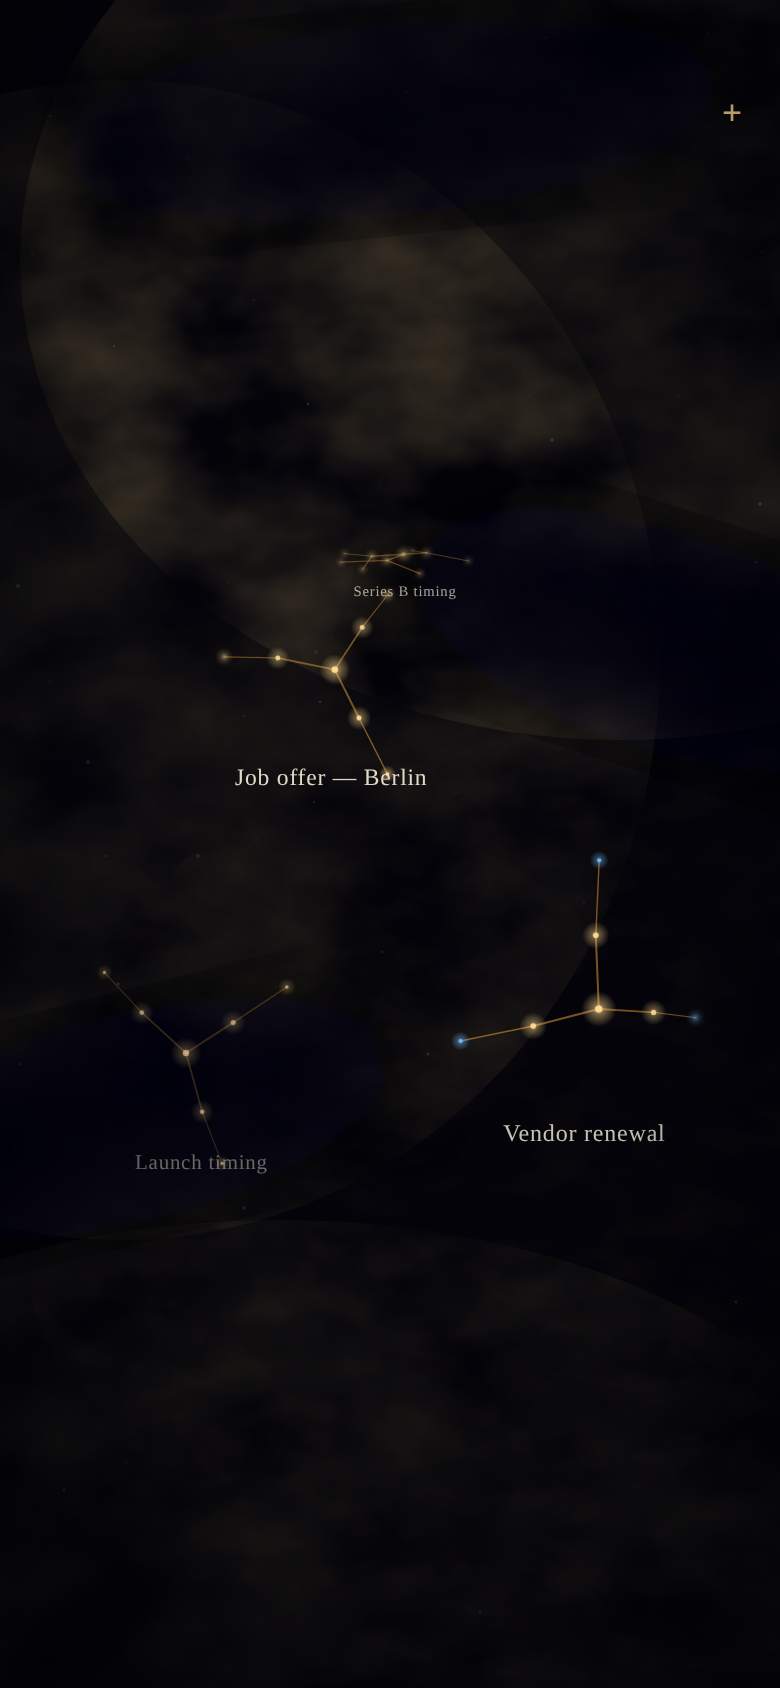
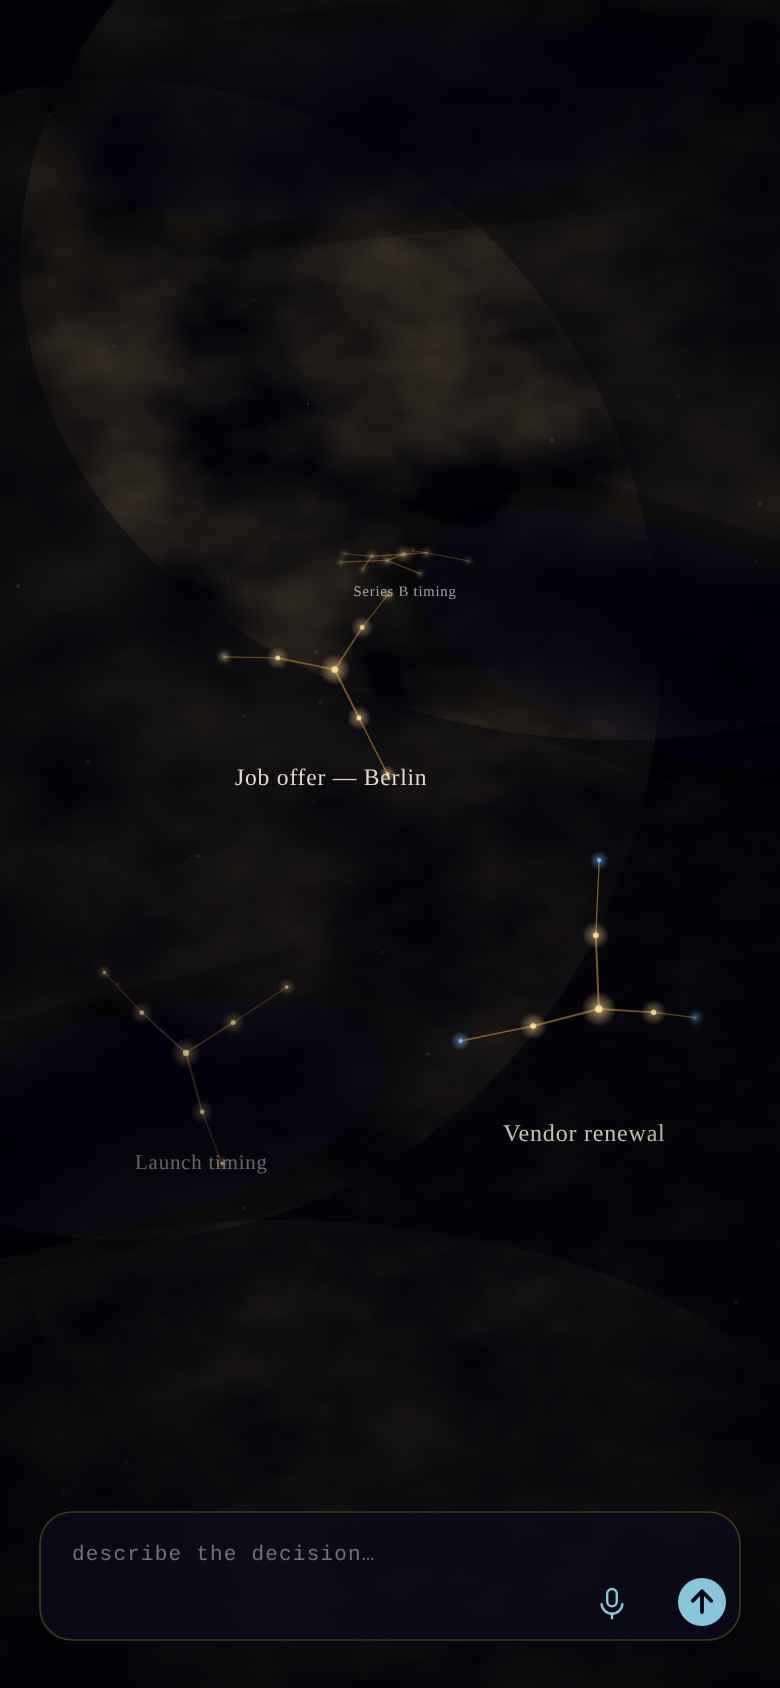
docs: UX update — pairing/provisioning flow mocks (1b-1d), creation (hold-to-birth, + deleted), unified hold-ring spec

diff --git a/docs/radiant-ux-update-onboarding-creation.md b/docs/radiant-ux-update-onboarding-creation.md
@@ -1,0 +1,58 @@
+# Prime Radiant — UX Update: Onboarding & Scenario Creation
+
+Handoff doc for the two interaction systems added after the main spec's mock set: **tailnet onboarding** (pairing + self-provisioning over SSH) and **scenario creation** (capsule + hold-to-birth). Companion mocks are the PNGs shipped alongside this doc; the authoritative product spec remains `prime-radiant-handoff.md` and the motion bible remains `radiant-implementation-notes.md` — both already incorporate everything here. Screens keep the app's standing doctrine: nebula void everywhere, no chrome, no instructions, state expressed through light.
+
+---
+
+## 1. Onboarding — pairing with the box
+
+**Architecture context (one line):** the app talks to a gateway on the user's own machine over their Tailscale tailnet; the model runtime is the user's Claude subscription via the Agent SDK on that box; there are no accounts and no API keys. Full detail: `radiant-pivot-claude-tailscale.md`.
+
+### Flow
+
+```
+1-onboarding ──touch──▶ 1b-address ──submit──▶ probe:
+                                        ├─ gateway already running ──────────────▶ 1d-paired
+                                        ├─ Tailscale SSH available (no creds) ──▶ 1c2-provisioning ─▶ 1d-paired
+                                        ├─ plain sshd ─▶ 1b3-credentials ───────▶ 1c2-provisioning ─▶ 1d-paired
+                                        └─ unreachable ─▶ 1b2 (inline state, not a screen change)
+   manual-install fallback only:  1c-pairing-code ─▶ 1d-paired
+```
+
+### Screens
+
+- **`1-onboarding`** — flythrough video still, one line: *touch to begin*. Anywhere-tap advances. (Unchanged.)
+- **`1b-pairing-address`** — a dim waiting node above a single capsule-styled field, ghost text `radiant.tailnet.ts.net`. Accepts MagicDNS name or raw 100.x IP; steer copy toward MagicDNS. On submit the node pulses (~1/s) while the app probes — **no spinner exists in this app**. Probe order: existing gateway → Tailscale SSH → plain sshd.
+- **`1b2-pairing-unreachable`** — the same screen's failure state: field border warms to ember, node dims, one line fades in below (400ms): *"the radiant is beyond reach"* — deliberately the same phrase as the app's offline state, one vocabulary. It fades out when typing resumes. **Editing the field is the retry**; there are no alerts and no retry buttons.
+- **`1b3-pairing-credentials`** — appears **only** on the plain-sshd path (Tailscale SSH makes it unnecessary — auth there is tailnet node identity). Address locked at top; `user` + password fields; one whisper: *"used once, then discarded."* Credentials are held in memory for the provisioning session only — never written to Keychain or disk.
+- **`1c2-provisioning`** — the app installs the server itself by streaming the idempotent `server/provision.sh` over the SSH channel. Visual: a condensing node (the birth visual language — the radiant taking root *is* a birth) above three stage lines that map to real script phases: *reaching the box ✓ · planting the radiant ● · waking the engine*. On failure, halt on the failing line with one plain sentence — canonical case: the box has no `claude login` (browser OAuth, unautomatable) → show that single instruction; retry resumes. No logs on screen; full log kept server-side. The device token returns **in-band over SSH stdout** — no code entry in this path. Provisioning reruns later as the update mechanism via a quiet *re-provision* action in Settings.
+- **`1c-pairing-code`** — fallback for hand-installed servers only: address whispered above a brightening node, six code cells (cyan caret in the active cell), caption *"code shown by your server."* Auto-advance per character; wrong code = shake-and-clear + error haptic.
+- **`1d-paired`** — the node ignites fully, two rings expand outward (~700ms, success haptic), the server address glows gold beneath. This frame lasts under a second before the ~900ms camera flight to the empty home. Pairing is seen exactly once; Unpair lives in Settings.
+
+**Reduce Motion:** pulses and rings become opacity steps; the flight becomes a cut.
+
+## 2. Scenario creation — two canonical paths
+
+The `+` button is deleted from the app (it was the last piece of chrome, and it was invisible against the void anyway). Creation now has two paths, both first-class:
+
+- **Speech-first — the capsule.** The home carries the same capsule as every other screen (placeholder: *"describe the decision…"*). Describing a decision from the home creates a scenario: a node ignites at a system-chosen point on the shell, the camera flies to it, and the canvas assembles as the engine's first patch arrives. The mic path is identical.
+- **Place-first — hold-to-birth (`10b-home-birth`).** Press-and-hold any **blank stretch of void** on the home for **~900ms**: the shared hold-ring fills at the touch point while an unborn node *condenses* beneath it — glow gathering out of the nebula. Existing constellations dim to ~60% during the hold (the same focus language as node selection). Completing the hold ignites the node **at those shell coordinates** and focuses the capsule; the first utterance names and seeds the scenario. This is how a user chooses *where* on the shell a future lives.
+- **No empty scenarios can exist:** early release, or dismissing the capsule without describing, dissolves the unborn node back into cloud (~450ms). Nothing is created until something is said.
+
+## 3. The hold-ring — one component, everywhere
+
+Every hold gesture in the app renders **the identical ring**: track circle r=26, amber, 2px, 22% opacity; gold fill arc, 2.4px, round caps, sweeping clockwise from 12 o'clock. No decorations — no directional motes, trails, arrows, or halos around it, ever. Contexts differ only in:
+
+| Context | Duration | Beneath the ring | Complete → |
+|---|---|---|---|
+| mark node reached (canvas) | ~700ms | the existing node | path solidifies, siblings ghost, EV recounts |
+| unmark / resolve (canvas) | ~700ms | the reached/terminal node | reverse / resolve flow |
+| birth a scenario (home void) | ~900ms | a condensing unborn node | node ignites at that point, capsule focuses |
+
+The 900ms birth duration is deliberately longer than the 700ms mark so the two can't collide in muscle memory. Haptics: ramp during any fill; mark completes with a single strong thud, birth with a distinct double-pop. Early release always drains the ring fast (~150ms), no completion haptic. Reduce Motion: the ring fills in opacity steps.
+
+## 4. What did not change
+
+Everything else: the through-the-void rendering, the orbital shell and single-globe model, the capsule/ridge footer system, the breadcrumb ribbon, chat and voice surfaces, the gesture lexicon outside creation, and the whole visual language. This update adds screens `1b, 1b2, 1b3, 1c, 1c2, 1d, 10b`, modifies `10` (capsule added, `+` removed) and `2` (unchanged visually; its unborn node is now understood as the same birth motif), and unifies the hold-ring across `7` and `10b`.
+
+**Files in this package:** this doc + the ten screens above (`1-onboarding`, `1b-pairing-address`, `1b2-pairing-unreachable`, `1b3-pairing-credentials`, `1c2-provisioning`, `1c-pairing-code`, `1d-paired`, `2-home-empty`, `10-home-constellation`, `10b-home-birth`).
